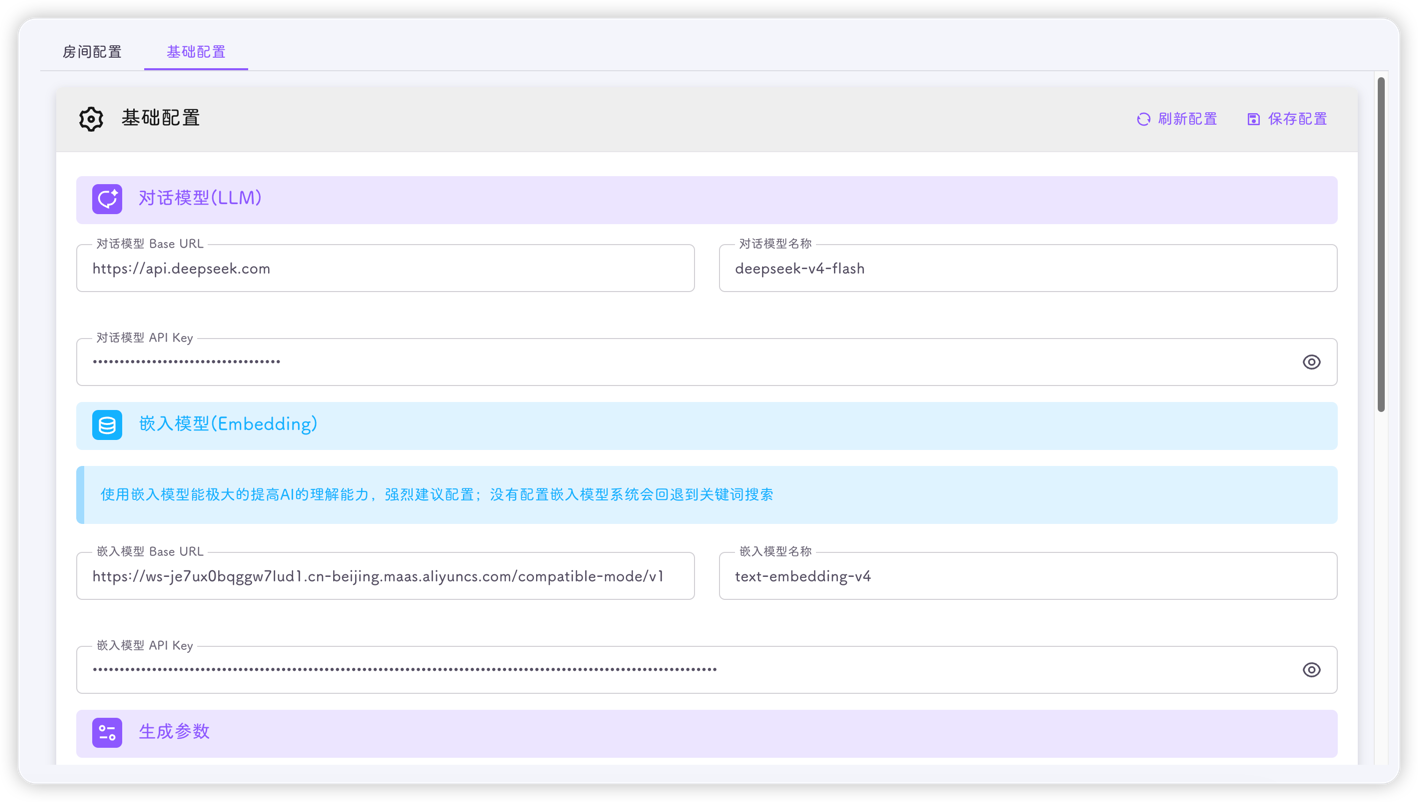
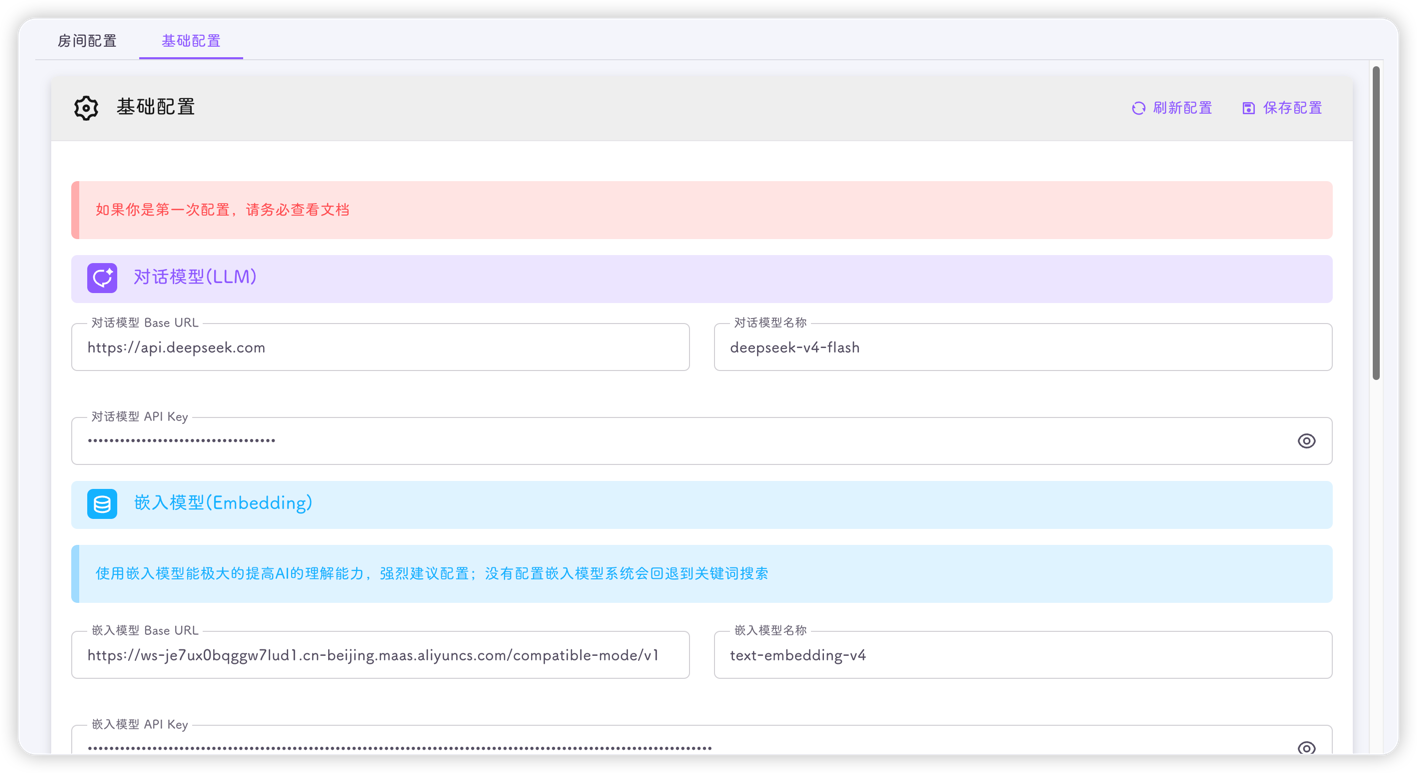
update

diff --git a/src/docs/tools/ai_chat.md b/src/docs/tools/ai_chat.md
@@ -11,7 +11,7 @@ order: 7
 
 :::important
 使用该功能需要**至少**配置一个LLM，会造成少量的token费用
-作者配置了`deepseek-v4-flush`和`text-embedding-v4`，一天下来，API费用大概是3毛钱
+作者配置了`deepseek-v4-flash`和`text-embedding-v4`，API费用大概是`7分(日常)-3毛(高强度)` **(2026年8月6日 到 2026年8月8日)**
 :::
 
 ## 配置
@@ -29,6 +29,10 @@ order: 7
 - **启用游戏内AI对话**
   - 关闭后，当前房间不会触发任何AI对话
 
+- **触发前缀**
+  - 默认为空，即玩家的聊天都会被回复
+  - 如果设置为`@AI`，则玩家输入: `@AI 火炬如何制作`，AI才会回复
+
 - **最大返回文档数**
   - 范围1-20
   - 平台通过分析玩家问题后，对知识库进行检索，检索结果可能包含多个文档(如10个)，如果该配置为3，则向LLM提供最相关的3个文档，丢弃后面7个文档
@@ -37,7 +41,8 @@ order: 7
   - 这也算是一个局限性，提供的文档越多，则消耗的token越多
 
 - **AI回复最大字数**
-  - 范围1-180
+  - 范围100-300
+  - 推荐设置为200
 
 #### 基础配置
 
@@ -50,10 +55,11 @@ order: 7
 - **对话模型Base URL**
   - **必填**
   - 兼容 `OpenAI Chat Completions API` 的服务地址；未以 /chat/completions 结尾时会自动补全
+  - 如deepseek：`https://api.deepseek.com`
 
 - **对话模型名称**
   - **必填**
-  - 即模型的名称，例如`deepseek-v4-flash`、`sol-5.6`等
+  - 即模型的名称，例如`deepseek-v4-flash`、`gpt-5.6-sol`等
 
 - **对话模型API Key**
   - **必填**
@@ -62,6 +68,7 @@ order: 7
 - **嵌入模型Base URL**
   - 选填
   - 兼容 `OpenAI Embeddings API` 的服务地址，系统会自动追加 /embeddings；不使用向量检索时可留空
+  - 如阿里云百炼：`https://xxxxx.maas.aliyuncs.com/compatible-mode/v1`
 
 - **嵌入模型名称**
   - 选填
@@ -72,32 +79,42 @@ order: 7
   - 也就是你的API Key
 
 :::tip
-使用嵌入模型能极大的提高AI的理解能力，**强烈建议**配置；没有配置嵌入模型系统会自动回退到关键词搜索
+使用嵌入模型能**极大**的提高AI的理解能力，**强烈建议**配置；没有配置嵌入模型系统会自动回退到关键词搜索
 
 **如果配置了嵌入模型，请在保存配置后，点击重建向量索引按钮**
+**如果配置了嵌入模型，请在保存配置后，点击重建向量索引按钮**
+**如果配置了嵌入模型，请在保存配置后，点击重建向量索引按钮**
+
+因构建向量索引会消耗较多token，平台不会主动建立向量索引
 :::
 
 - **系统提示词**
   - 选填，推荐**不填**
   - 即LLM的Role: system
-  - 默认为："你是饥荒联机版游戏内的 AI 助手。请根据以上参考文档，用中文回答玩家的问题。回答应简洁、准确，适合在游戏聊天框中显示，坚决不能使用使用 Markdown 格式，回答不能超过{**AI回复最大字数**}个字。"
+  - 默认为："你是饥荒联机版游戏内的 AI 助手。请根据以上参考文档，用中文回答玩家的问题。回答应简洁、准确，适合在游戏聊天框中显示，坚决不能使用使用 Markdown 格式。当前提问玩家使用的角色是 {**玩家角色**}，请结合该角色信息理解问题。回答不能超过{**AI回复最大字数**}个字。"
 
 - **Temperature**
   - **必填**
+  - 推荐默认0.7或以下
+  - Temperature是LLM API一个非常重要的采样参数，它控制着模型输出内容的随机性或创造性
 
 - **最大输出Token**
   - **必填**
+  - 推荐默认值512
 
 - **请求超时(秒)**
   - **必填**
+  - 推荐默认值60
 
 - **上下文消息上限**
   - **必填**
   - 即保留多少轮会话，让AI有记忆，超过上限的信息会被清理，以释放内存
+  - 推荐默认值10
 
 - **上下文有效期(分钟)**
   - **必填**
-  - 在设置有效期外，玩家仍然没有问答，则清理历史聊天信息，以释放内存
+  - 超过指定的时间后，清理上下文，删除历史聊天信息，以释放内存
+  - 推荐默认值30
 
 
 ## 介绍
@@ -160,9 +177,17 @@ flowchart TD
 
 :::tip
 调用嵌入模型生成索引会消耗大量的token，**>80w**
+随着wiki文档的增加，构建消耗的token和时间时也会随之增加
 :::
 
 #### 关键词检索
+
+:::tip
+关键词检索索引构建是自动的
+995篇wiki文档, 共计51186个词条, 构建总耗时0.5秒
+随着wiki文档的增加，构建耗时也会随之增加
+:::
+
 关键词引擎使用基于解析后 Wiki Markdown 文档构建的字段加权 `TF-IDF` 评分模型
 
 每篇文档被分解为五个部分（分类、描述、制作材料及解锁、如何获取、备注），且每个部分的词项评分均应用不同的权重：
@@ -176,7 +201,7 @@ flowchart TD
 | Description (描述) | keywordDescriptionWeight | 2.5 |
 | Notes (备注)       | keywordNotesWeight       | 1.0 |
 
-在 TF-IDF 基础评分之上，直接名称匹配将应用额外加分：精确名称匹配加 20.0，部分名称匹配加 8.0，分类匹配加 5.0。这确保了当提问 "火炬"时，即使词频较低，也能优先呈现精确的斧头 Wiki 页面。
+在 TF-IDF 基础评分之上，直接名称匹配将应用额外加分：精确名称匹配加 20.0，部分名称匹配加 8.0，分类匹配加 5.0。这确保了当提问 "火炬"时，即使词频较低，也能优先呈现精确的火炬文档。
 
 ## 使用
 

diff --git a/src/quick-start/install.md b/src/quick-start/install.md
@@ -9,8 +9,19 @@ date: 2025-12-26
 请在安装前再次确认系统版本，饥荒管理平台支持的系统有**Ubuntu24**、**Rocky9**、**Debian13**或更高版本
 :::
 
+:::info
+从`v3.1.3`版本开始，饥荒管理平台不再依赖glibc库，可用更早版本的系统
+
+但作者只测试了**Ubuntu24**、**Rocky9**、**Debian13**
+:::
+
+:::warning
+由于Rocky 10不再支持32位应用，因此无法安装饥荒依赖
+:::
+
 ::: danger
 安装需root用户(sudo也不推荐)，安装前请再次确认当前用户是否为root，可输入命令`whoami`进行查看
+
 如果你想使用其他用户安装，请查看[非root部署](../docs/install/no-root.md)
 :::
 

diff --git a/src/docs/install/bin.md b/src/docs/install/bin.md
@@ -10,6 +10,16 @@ date: 2025-06-04
 本节不再重复讲解
 :::
 
+:::info
+从`v3.1.3`版本开始，饥荒管理平台不再依赖glibc库，可用更早版本的系统
+
+但作者只测试了**Ubuntu24**、**Rocky9**、**Debian13**
+:::
+
+:::warning
+由于Rocky 10不再支持32位应用，因此无法安装饥荒依赖
+:::
+
 ## 启动脚本功能
 
 #### \[0]: 下载并启动饥荒管理平台
